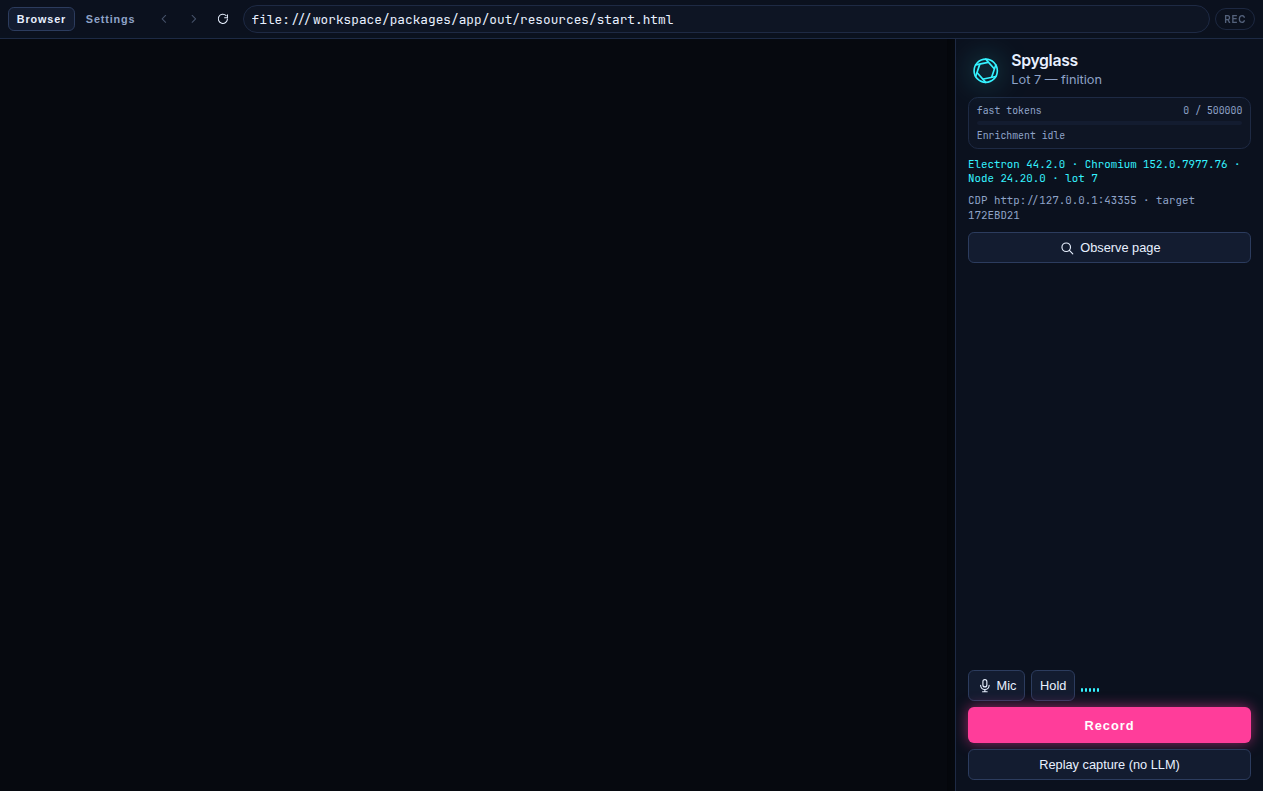
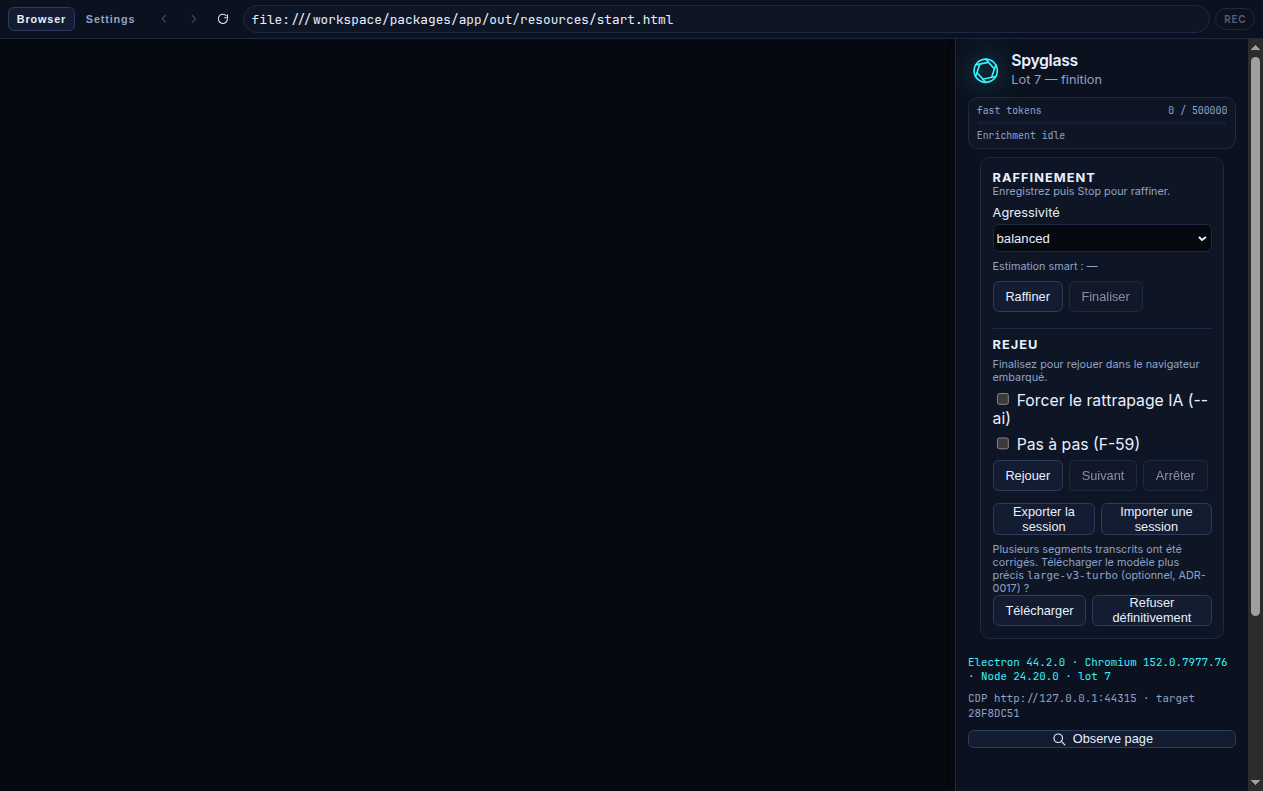
fix(lot-7): unhide refine panel so chrome evidence shot shows F-59 controls
Parent #refine-panel stays hidden until finalize; the screenshot path now
reveals it with the replay/export and STT upgrade sections.

Changed region(s): [[0.7411, 0.0303, 1.0, 1.0], [0.772, 0.6372, 0.9572, 0.7889], [0.772, 0.4248, 0.9572, 0.6068]]

diff --git a/packages/app/e2e/lot7-finition.spec.ts b/packages/app/e2e/lot7-finition.spec.ts
@@ -38,10 +38,10 @@ test.describe('Lot 7 chrome (F-47 / F-59 / F-38)', () => {
       const shotDir = process.env.SPYGLASS_E2E_SCREENSHOT_DIR;
       if (shotDir !== undefined && shotDir.length > 0) {
         await chrome.evaluate(() => {
+          document.getElementById('refine-panel')?.removeAttribute('hidden');
           document.getElementById('replay-panel')?.removeAttribute('hidden');
           document.getElementById('stt-upgrade')?.removeAttribute('hidden');
         });
-        await chrome.locator('#replay-panel').scrollIntoViewIfNeeded();
         await chrome.screenshot({ path: join(shotDir, 'chrome-lot7-controls.png') });
       }
     } finally {
